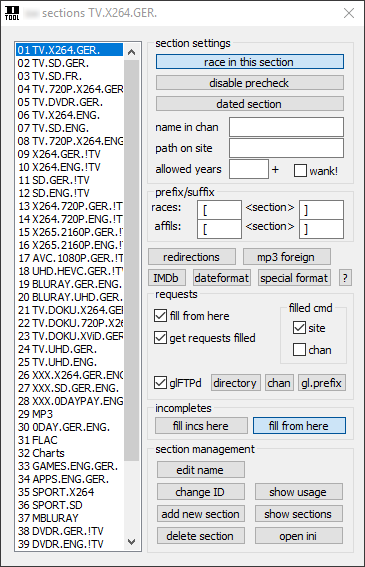
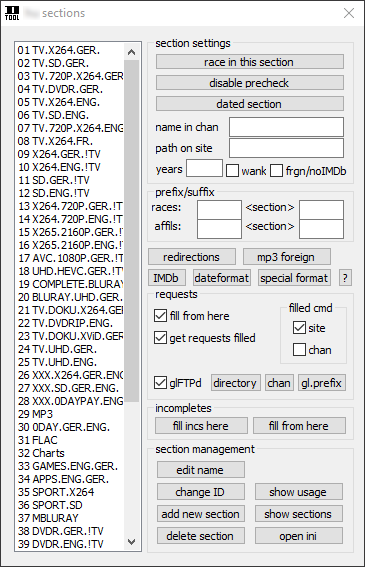
v.8.7

diff --git a/SiteSetup.html b/SiteSetup.html
@@ -184,29 +184,29 @@ Als Datum wird ein selber eingetragenes Format benutzt, Erklärung folgt..<br>
 Chan gepostet wird. Sie arbeiten case-sensitive, also genau eintragen (Groß- und Kleinschreibung beachten).<br>
         - "path on site" und "allowed years" sollte klar sein. Diesen 
 Pfad dann bei mehreren Subdirs so angeben: DIR/SUBDIR/SUBDIR      <br>
-        - "wank!" bezweckt das ausstellen des Wankerchecks für diese Sektion
-        <br>
+        - "wank" bezweckt das ausstellen des Wankerchecks für diese Sektion<br />
+        -        &quot;frgn/noIMDb&quot; bezweckt das ausstellen des Foreign- und IMDbChecks für diese Sektion.<br>
         <br>
         <strong>Prefix/Suffix</strong><br>
         Wird die Sektion im Bot-Announce APPS: oder [APPS] genannt, muss man das hier 
-eintragen. Als Sektionenamen trägt man beim Beispiel [APPS] einfach nur APPS ein, 
-die Klammern  bei Prefix bzw. Suffix, also ein [ bei Prefix
- und ein ] bei Suffix. <br>
+        eintragen. Als Sektionenamen trägt man beim Beispiel [APPS] einfach nur APPS ein, 
+        die Klammern  bei Prefix bzw. Suffix, also ein [ bei Prefix
+        und ein ] bei Suffix. <br>
         Auch wenn beim Affilannounce etwas anderes gepostet wird wie -APPS-PRE- kann man das darüber regeln.<br />
         <br>
         <strong>- redirections </strong><br />
-      Erklärung weiter unten <br>
-      <strong>- mp3 foreign</strong><br />
-      Den Foreigncheck bei MP3/FLAC Sektionen ausschalten <br>
-      <strong>- IMDb</strong><br>
-Zum einstellen der erlaubten Ratings und Votes bei Filmen. Zusätzlich kann man in englischen Filmsektionen  checken lassen ob die Sprache Englisch, es Doku oder Comedy ist.<br />
-Bei Comedy werden allerdings auch  Filmkomödien ausgeschlossen, nicht nur Comedyshows.<br>
-<strong>- dateformat</strong><br>
-Hier stellt man das Standard Datumsformat ein, das bei Dated-Sections auf der Site benutzt wird<br />
-<strong>- special format</strong><br />
-Hier kann man ein spezielles Datumsformat für die aktive Sektion festlegen<br>
-<strong>- ? </strong><br>
-Zeigt das eingestellte Datumsformat für den jeweiligen Tag an</p>
+        Erklärung weiter unten <br>
+        <strong>- mp3 foreign</strong><br />
+        Den Foreigncheck bei MP3/FLAC Sektionen ausschalten <br>
+        <strong>- IMDb</strong><br>
+        Zum einstellen der erlaubten Ratings und Votes bei Filmen. Zusätzlich kann man in englischen Filmsektionen  checken lassen ob die Sprache Englisch, es Doku oder Comedy ist.<br />
+        Bei Comedy werden allerdings auch  Filmkomödien ausgeschlossen, nicht nur Comedyshows.<br>
+        <strong>- dateformat</strong><br>
+        Hier stellt man das Standard Datumsformat ein, das bei Dated-Sections auf der Site benutzt wird<br />
+        <strong>- special format</strong><br />
+        Hier kann man ein spezielles Datumsformat für die aktive Sektion festlegen<br>
+        <strong>- ? </strong><br>
+        Zeigt das eingestellte Datumsformat für den jeweiligen Tag an</p>
 <p class="normalschrift"><a href="https://d-tool.github.io/Reqfiller.html" class="link-normal"><strong>Requests</strong></a></p>
       <p class="normalschrift">fill from here - Ob von dieser Site Requests gefillt werden sollen<br>
         get requests filled -              Ob auf dieser Site Requests gefillt werden sollen<br>

diff --git a/Languages.html b/Languages.html
@@ -120,11 +120,11 @@ body {
         Bezüglich der erlaubten Sprachen normaler Races gibt es die Datei<strong> languages.db</strong> im d-tool Ordner.<br />
  Das Script tradet natürlich englische Releases, das muss  nicht angegeben werden und ist  immer erlaubt. Alle anderen  Sprachen die man traden möchte, müssen in diese Datei eingetragen werden. <br />
  <br />
- Folgendes ist notwendig damit der Wankercheck greift und falsche Sprachen herausfiltert:<br />
+  Damit der Foreigncheck greift und falsche Sprachen herausfiltert ist es notwendig, dass man die Sprachen in den allgemeinen Sektionsnamen schreibt.<br />
  Out of the Box steht in dieser Datei &quot;GER GERMAN,German&quot;, das bedeutet es wird neben englisch auch deutsch getraded. </span>Das erste Wort in der Zeile steht dabei für den Eintrag im Sektionsnamen. Wird es so eingetragen, muss im Sektionsnamen   &quot;GER.&quot; enthalten sein (also gefolgt von einem Punkt).        <br />
 <span class="helpdesk">In dem Beispiel muss   dann .GERMAN. oder .German. im Release vorkommen  (check ist case-sensitive). <br />
 <br />
-Warum der Punkt am Ende von GER.? Im Sektionsnamen müssen Sprachen, die man definieren möchte und in diese Datei eingetragen wurden,  immer von einem Punkt gefolgt sein, damit sie erkannt werden.<br />
+ Im Sektionsnamen müssen Sprachen, die man definieren möchte und in diese Datei eingetragen wurden,  immer von einem Punkt gefolgt sein, damit sie erkannt werden.<br />
         Für Französisch müsste zB. zusätzlich &quot;FR FRENCH,French,TRUEFRENCH&quot; in die nächste Zeile eintragen werden.<br />
 </span><span class="helpdesk"> <br />
         Somit: Die erste Stelle in einer Zeile ist die Bezeichnung, die man im Sektionsnamen eintragen muss, die Zweite das was im Release zur Erkennung vorkommen muss.

diff --git a/index.html b/index.html
@@ -143,7 +143,7 @@ body {
       <span class="KleinerText"><a href="https://d--tool-github-io.translate.goog/index.html?_x_tr_sl=de&amp;_x_tr_tl=en&amp;_x_tr_hl=de&amp;_x_tr_pto=wapp" class="helpdesk1"><span class="link-nodecoration-grey-10px"><br />
         <br />
         translate me</span></a></span></p></td>
-    <td width="228" valign="top"><p class="mini_text"><a href="Latest.html" class="link-normal">dt.v.8.6</a><br />
+    <td width="228" valign="top"><p class="mini_text"><a href="Latest.html" class="link-normal">dt.v.8.7</a><br />
         <br />
         <br />
         <br />
